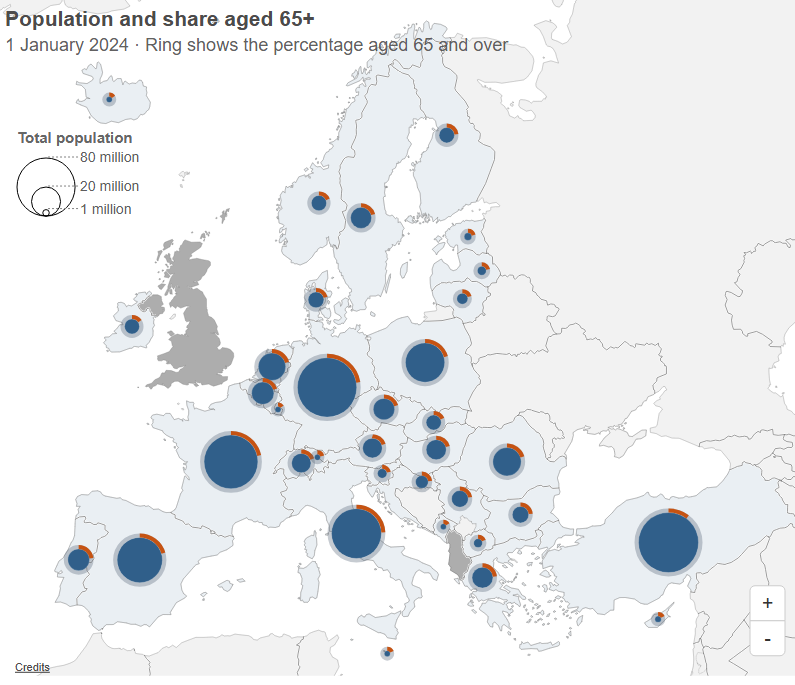
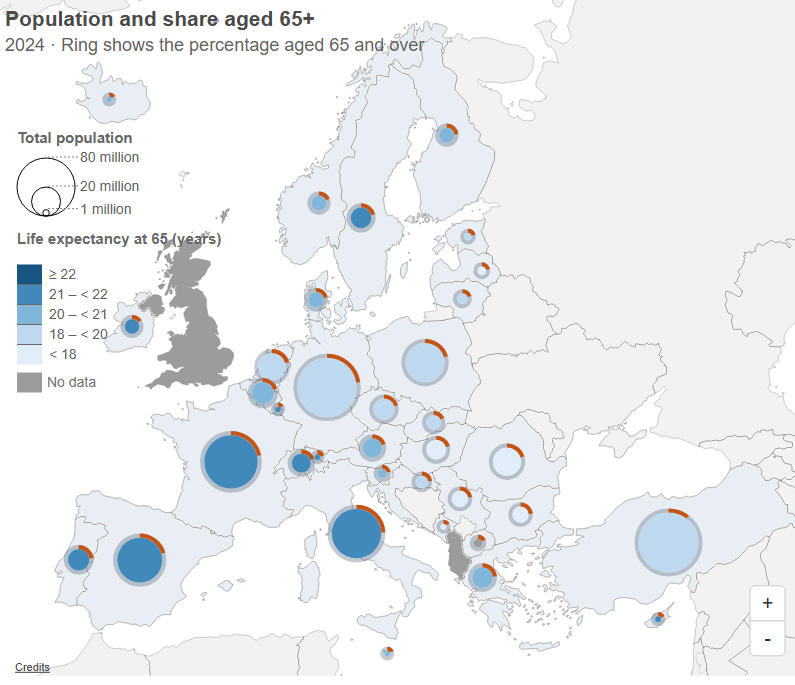
Add selectable colour indicators to population ring example

diff --git a/examples/proportional-symbols/population-ring.html b/examples/proportional-symbols/population-ring.html
@@ -4,17 +4,64 @@
         <meta charset="UTF-8" />
         <meta name="viewport" content="width=device-width, initial-scale=1.0" />
         <title>Population and Share Aged 65+</title>
+        <style>
+            .indicator-control {
+                display: flex;
+                flex-wrap: wrap;
+                align-items: center;
+                gap: 8px;
+                margin: 12px 0;
+                font: 14px Arial, sans-serif;
+            }
+
+            #color-indicator {
+                max-width: 100%;
+                padding: 5px;
+                font: inherit;
+            }
+        </style>
     </head>
     <body>
-        <svg id="map" aria-label="Population size and share aged 65 and over by country"></svg>
+        <div class="indicator-control">
+            <label for="color-indicator">Circle colour</label>
+            <select id="color-indicator" disabled>
+                <option value="lifeExpectancy">Life expectancy at age 65</option>
+                <option value="healthyLifeYears">Healthy life years at age 65</option>
+                <option value="naturalChange">Natural population change</option>
+            </select>
+        </div>
+        <svg id="map" aria-label="Population, share aged 65 and over, and life expectancy at age 65 by country"></svg>
         <script src="../../build/eurostatmap.js"></script>
         <script>
-            eurostatmap
+            const blues = ['#e1edf8', '#bed8ef', '#81b6db', '#4289bb', '#175583']
+            const indicators = {
+                lifeExpectancy: {
+                    stat: { eurostatDatasetCode: 'demo_mlexpec', unitText: 'years', filters: { age: 'Y65', sex: 'T', unit: 'YR' } },
+                    legendTitle: 'Life expectancy at 65 (years)',
+                    thresholds: [18, 20, 21, 22],
+                    colors: blues,
+                },
+                healthyLifeYears: {
+                    stat: { eurostatDatasetCode: 'hlth_hlye', unitText: 'years', filters: { hlth_hle: 'HLY_Y65', sex: 'T', unit: 'YR' } },
+                    legendTitle: 'Healthy life years at 65',
+                    thresholds: [7, 9, 11, 13],
+                    colors: blues,
+                },
+                naturalChange: {
+                    stat: { eurostatDatasetCode: 'demo_gind', unitText: 'per 1,000 residents', filters: { indic_de: 'NATGROWRT' } },
+                    legendTitle: 'Natural change per 1,000',
+                    thresholds: [-6, -2, 0, 2, 6],
+                    colors: ['#693b86', '#9c72b4', '#dfcfe9', '#c7e4dc', '#67ac9c', '#226b5c'],
+                },
+            }
+
+            const selector = document.getElementById('color-indicator')
+            const map = eurostatmap
                 .map('proportionalSymbol')
                 .nutsLevel(0)
                 .scale('20M')
                 .title('Population and share aged 65+')
-                .subtitle('1 January 2024 · Ring shows the percentage aged 65 and over')
+                .subtitle('2024 · Ring shows the percentage aged 65 and over')
                 .stat('population', {
                     eurostatDatasetCode: 'demo_r_pjanaggr3',
                     unitText: 'people',
@@ -27,21 +74,54 @@
                 .encoding('size', { stat: 'population' })
                 .encoding('ring', { stat: 'share65Plus' })
                 .psSettings({
-                    fill: '#305f8a',
                     minSize: 3,
                     maxSize: 30,
                     ringWidth: 4,
                     ringColor: '#c65312',
                     ringTrackColor: '#53647555',
                 })
-                .legend({
-                    x: 10,
-                    y: 110,
-                    boxOpacity: 0,
-                    sizeLegend: { title: 'Total population', values: [80_000_000, 20_000_000, 1_000_000] },
-                })
+                .noDataFillStyle('#9c9c9c')
+                .transitionDuration(0)
                 .insets(false)
-                .build()
+                .onBuild(() => {
+                    selector.disabled = false
+                })
+
+            for (const [key, { stat }] of Object.entries(indicators)) {
+                map.stat(key, { ...stat, filters: { ...stat.filters, time: '2024' } })
+            }
+
+            function selectIndicator(key) {
+                const { legendTitle, thresholds, colors } = indicators[key]
+                const ranges = [
+                    `< ${thresholds[0]}`,
+                    ...thresholds.slice(1).map((upper, index) => `${thresholds[index]} – < ${upper}`),
+                    `≥ ${thresholds.at(-1)}`,
+                ].reverse()
+                map
+                    .encoding('color', { stat: key })
+                    .psSettings({ thresholds, colors })
+                    .legend({
+                        x: 10,
+                        y: 110,
+                        boxOpacity: 0,
+                        sizeLegend: { title: 'Total population', values: [80_000_000, 20_000_000, 1_000_000] },
+                        colorLegend: {
+                            title: legendTitle,
+                            labelType: 'ranges',
+                            labelFormatter: (_, index) => ranges[index],
+                            noData: true,
+                        },
+                    })
+                document.getElementById('map').setAttribute(
+                    'aria-label',
+                    `Population, share aged 65 and over, and ${selector.selectedOptions[0].textContent.toLowerCase()} by country`
+                )
+            }
+
+            selector.addEventListener('change', () => selectIndicator(selector.value))
+            selectIndicator(selector.value)
+            map.build()
         </script>
     </body>
 </html>
